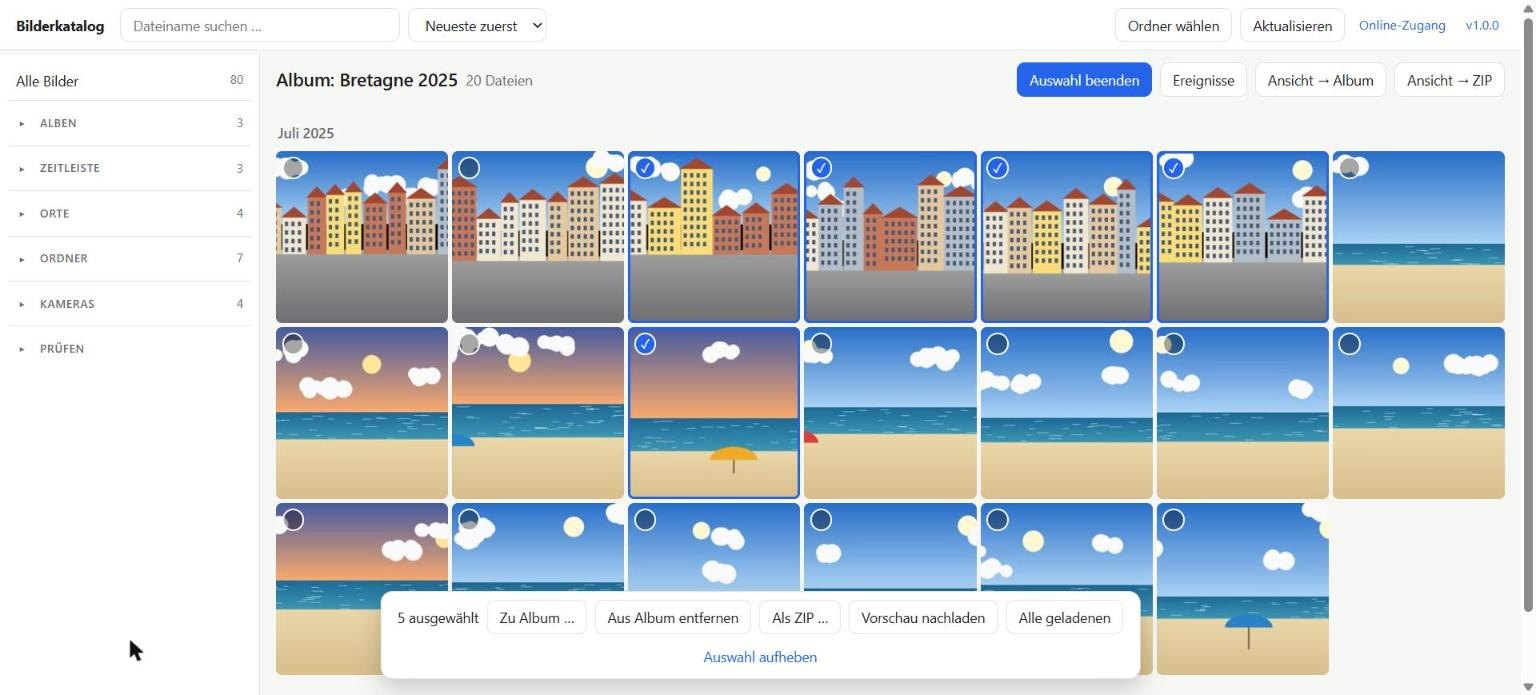
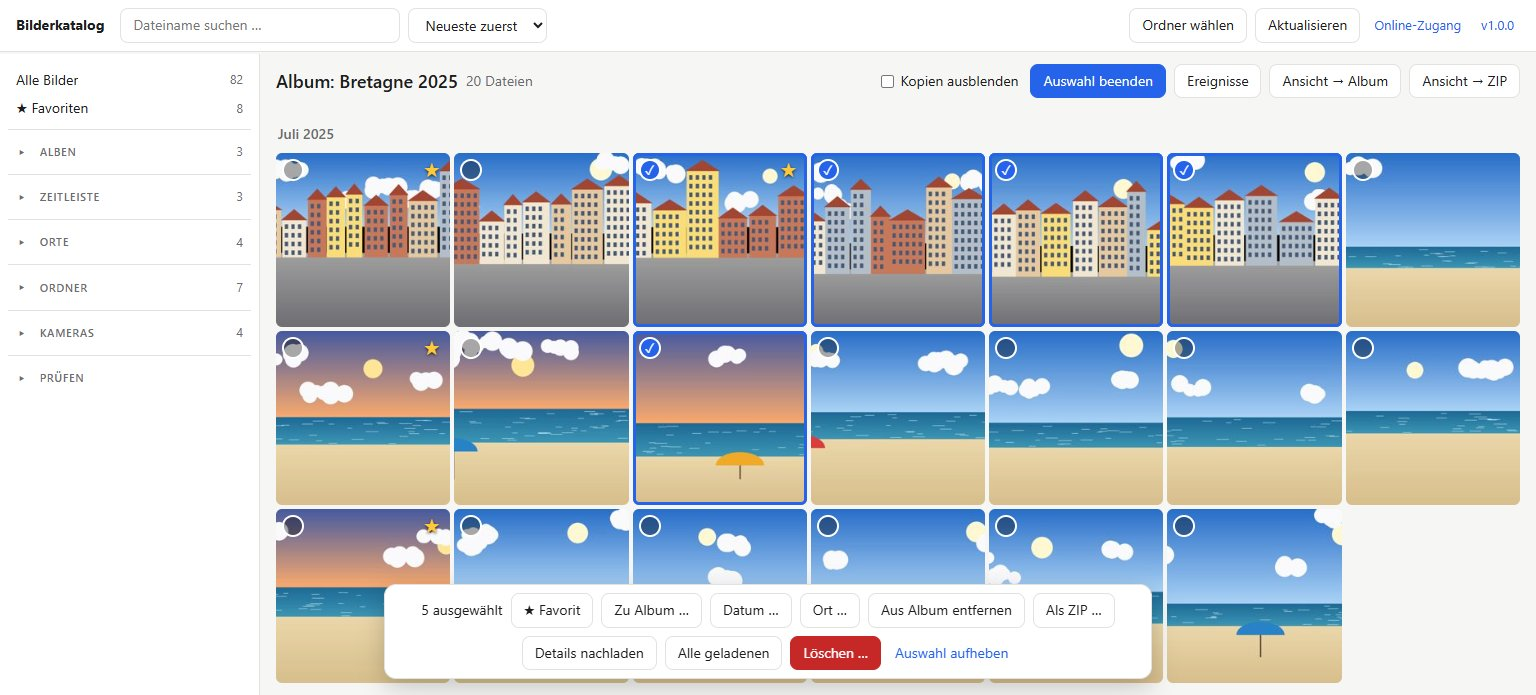
Neue Screenshots mit deutschen Ortsnamen, Beispielort ersetzt
Screenshots mit den Demo-Bildern neu aufgenommen (Favoriten, Kopien,
Datum/Ort ändern, Löschen). Beispielort im Suchfeld und in Tests ersetzt.

diff --git a/bilderkatalog/static/index.html b/bilderkatalog/static/index.html
@@ -126,7 +126,7 @@
     <h3>Ort setzen</h3>
     <p class="muted" id="place-info"></p>
     <label>Ort suchen oder Koordinaten eingeben
-      <input id="place-q" placeholder="z. B. Lissabon, Rosbach oder 48.8566, 2.3522" autocomplete="off" spellcheck="false">
+      <input id="place-q" placeholder="z. B. Lissabon, Freiburg oder 48.8566, 2.3522" autocomplete="off" spellcheck="false">
     </label>
     <ul id="place-results" class="place-results"></ul>
     <p class="muted">Koordinaten kopierst du z. B. aus einer Karten-App (Rechtsklick auf die Stelle).

diff --git a/tests/test_own_entries.py b/tests/test_own_entries.py
@@ -137,7 +137,7 @@ def test_search_places_finds_german_names_and_coordinates(conn):
     assert places.search(conn, "Köln")[0]["city"] == "Köln"
     assert places.search(conn, "Koeln")[0]["city"] == "Köln"
     assert places.search(conn, "Munich")[0]["city"] == "München"  # englischer Name findet auch
-    assert places.search(conn, "rosbach vor der hohe")[0]["city"] == "Rosbach vor der Höhe"
+    assert places.search(conn, "furstenfeldbruck")[0]["city"] == "Fürstenfeldbruck"
     genf = places.search(conn, "Genf")[0]  # fehlt im Datensatz von reverse_geocoder, ist nachgetragen
     assert (genf["city"], genf["country_code"]) == ("Genf", "CH")
     paris = places.search(conn, "Paris")[0]

diff --git a/tools/ortsnamen.py b/tools/ortsnamen.py
@@ -1,7 +1,7 @@
 """Erzeugt bilderkatalog/data/ortsnamen_de.tsv.gz – deutsche Orts- und Regionsnamen.
 
-Das Ortsverzeichnis von reverse_geocoder enthält nur ASCII-Namen ("Rosbach vor der
-Hohe", "Munich", "Bavaria"). Dieses Skript ergänzt aus den Originaldaten von GeoNames
+Das Ortsverzeichnis von reverse_geocoder enthält nur ASCII-Namen ("Furstenfeldbruck",
+"Munich", "Bavaria"). Dieses Skript ergänzt aus den Originaldaten von GeoNames
 (CC BY 4.0) die richtige Schreibweise bzw. den deutschen Namen und die Einwohnerzahl.
 
 Nur für Entwickler, einmalig bzw. nach einem Update von reverse_geocoder:

diff --git a/bilderkatalog/ortsnamen.py b/bilderkatalog/ortsnamen.py
@@ -1,6 +1,6 @@
 """Deutsche Orts- und Regionsnamen für das GeoNames-Ortsverzeichnis von reverse_geocoder.
 
-reverse_geocoder kennt nur ASCII-Namen ("Munich", "Rosbach vor der Hohe", "Bavaria").
+reverse_geocoder kennt nur ASCII-Namen ("Munich", "Furstenfeldbruck", "Bavaria").
 data/ortsnamen_de.tsv.gz (erzeugt mit tools/ortsnamen.py, Daten © GeoNames, CC BY 4.0)
 liefert dazu den deutschen Namen bzw. die richtige Schreibweise und die Einwohnerzahl.
 """
